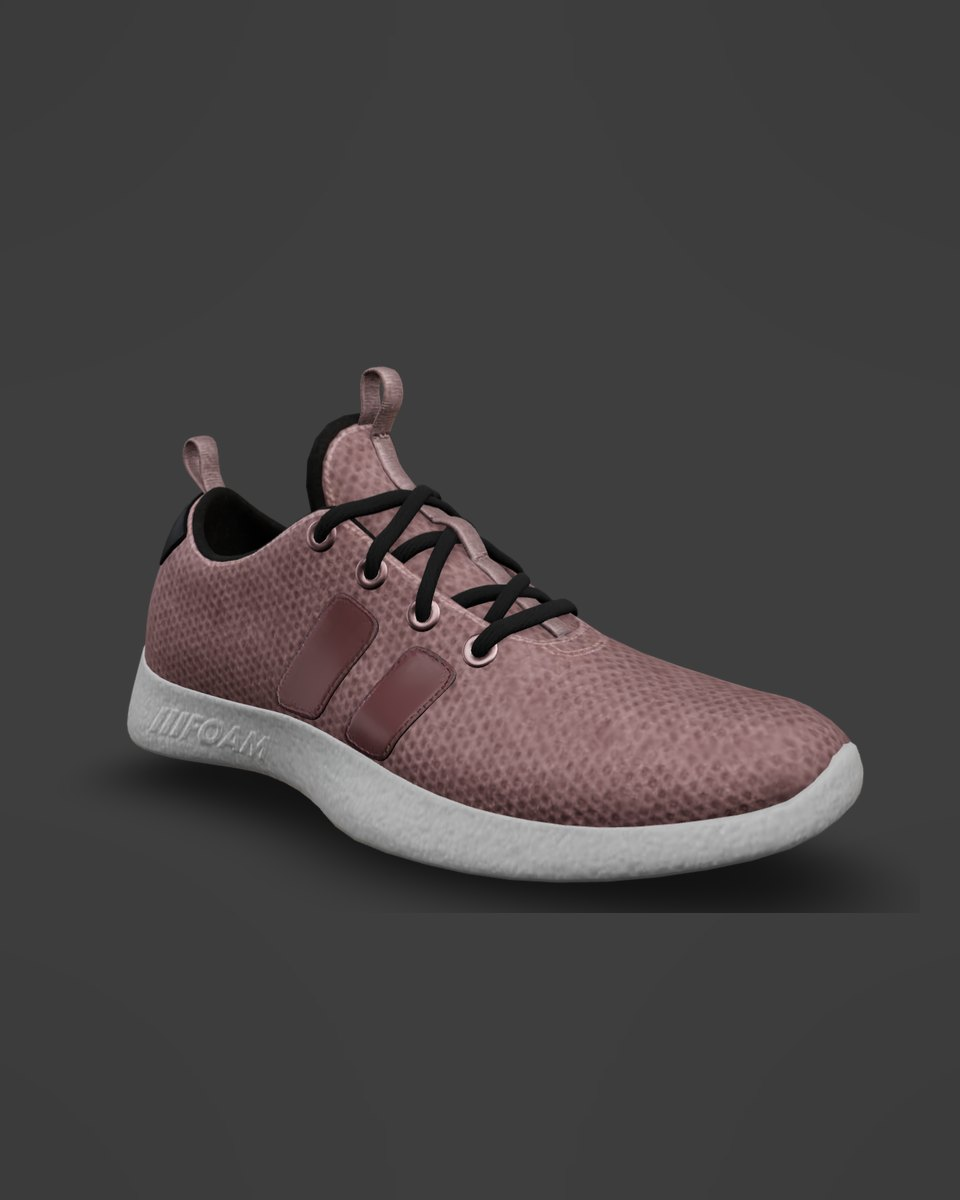
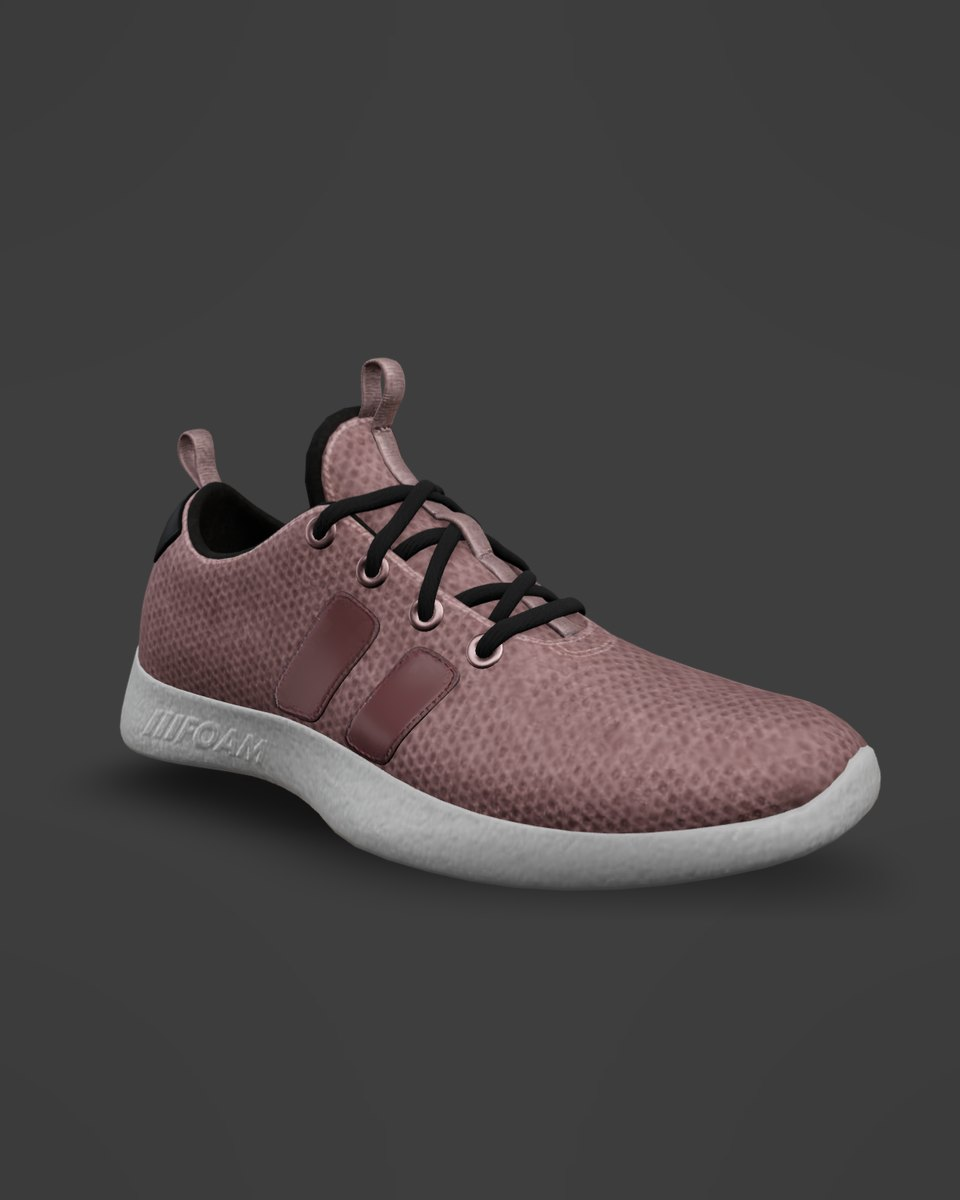
Changes

diff --git a/src/routes/product.$slug.tsx b/src/routes/product.$slug.tsx
@@ -89,7 +89,7 @@ function ProductPage() {
       <div className="mx-auto max-w-[1600px] px-5 py-6 md:px-10">
         <nav className="label flex gap-2 text-muted-foreground" aria-label="Breadcrumb">
           <Link to="/" className="hover:text-foreground">Home</Link> /
-          <Link to="/shop" search={{ category: product.category }} className="hover:text-foreground capitalize">{product.category}</Link> /
+          <Link to="/shop" search={{ category: product.category }} className="hover:text-foreground">{product.category}</Link> /
           <span className="text-foreground">{product.name}</span>
         </nav>
       </div>

diff --git a/src/components/vanta/HeroSection.tsx b/src/components/vanta/HeroSection.tsx
@@ -58,7 +58,7 @@ export function HeroSection() {
       {/* 3D product */}
       <motion.div
         style={{ opacity: fade }}
-        className="absolute inset-x-0 top-[10%] h-[42%] md:inset-x-auto md:right-0 md:top-[6%] md:h-[62%] md:w-[55%]"
+        className="absolute inset-x-0 top-[8%] h-[26%] md:inset-x-auto md:right-0 md:top-[6%] md:h-[62%] md:w-[55%]"
       >
         <Sneaker3DStage
           mode="hero"
